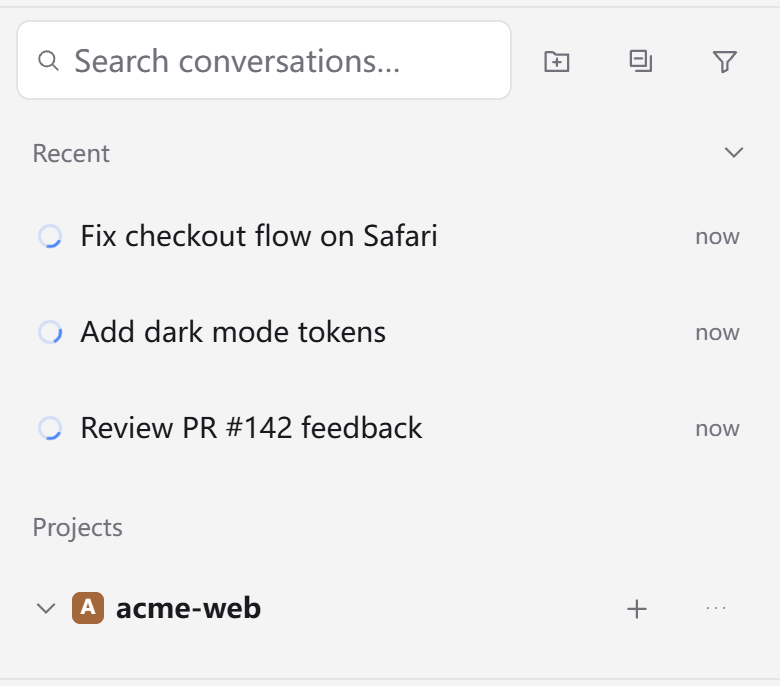
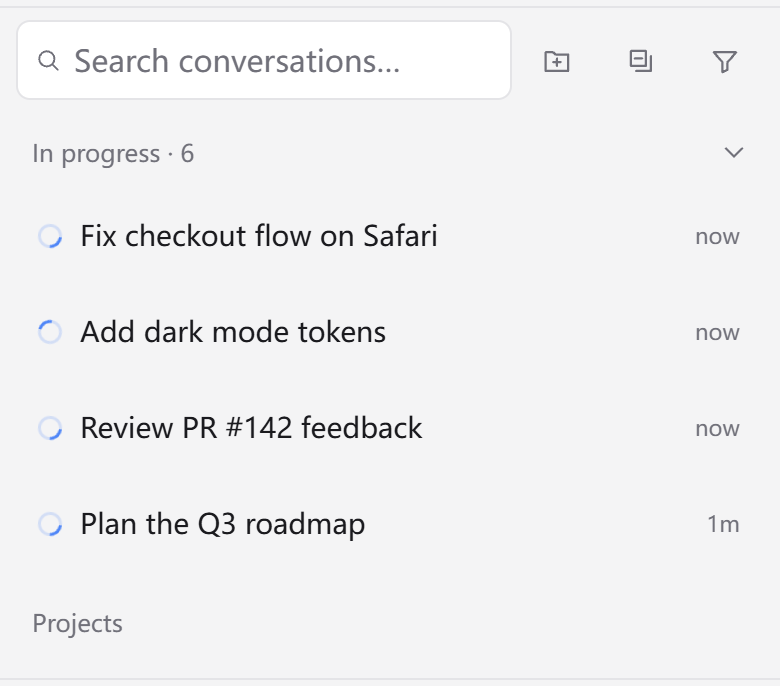
Nest subtasks under their parent, show In progress, two-line desktop titles
- Subtasks fold under the conversation that started them behind a count chip;
  the chip turns amber when a subtask needs approval or failed. Search and
  status filters still list subtasks directly.
- "Recent" becomes "In progress": running, waiting for permission, errored,
  or finished-unread conversations across projects, most urgent first. Quiet
  subtasks stay with their parent; permission requests still surface.
- Titles default to two lines on desktop and one on phones, chosen per device
  in View options -> Titles.
- Docs and listing screenshots updated.

diff --git a/client/sidebar.tsx b/client/sidebar.tsx
@@ -4,7 +4,7 @@ import { ConversationViewContext } from './conversation-view';
 import { FolderDragProvider, DragFolderRow, FolderDropTarget, type DragFolder, type FolderDestination } from './folder-drag';
 import { SidebarTabsView, type SidebarTabScope, type SidebarTabControls } from './sidebar-tabs';
 import { ConversationActions } from './conversation-actions';
-import { conversationState, aggregateStates } from '../shared/status';
+import { conversationState, aggregateStates, quietSubtask } from '../shared/status';
 import { ConversationDragProvider, DragConversationRow, ConversationDropTarget, type DragConversation, type ConversationDestination } from './drag-and-drop';
 import { conversationOrder, matchesConversation, defaultConversationOptions, type ConversationOptions } from '../shared/conversations';
 import { DropdownMenu, type DropdownAnchor, type DropdownItem } from './dropdown-menu';
@@ -25,20 +25,23 @@ import type { ReactNode } from 'react';
 const mediaQuery = (globalThis as unknown as { matchMedia?: (query: string) => { matches: boolean } }).matchMedia;
 const feedback = Platform?.OS === 'web' && mediaQuery && !mediaQuery('(prefers-reduced-motion: reduce)').matches ? { transitionProperty: 'background-color, opacity', transitionDuration: '140ms', transitionTimingFunction: 'ease-out' } : {};
 
-function ConversationRow({ reference, view, select, moving, detailed, serverLabel, loadingEffect, loadingColor }: { loadingColor?: string; loadingEffect?: LoadingEffect; reference: AgentRef; view: PluginSidebarViewProps; select(id: string): void; moving: boolean; detailed?: boolean; serverLabel?: string }) {
+type SubtaskChip = { count: number; open: boolean; alert: boolean; toggle(): void };
+function ConversationRow({ reference, view, select, moving, detailed, serverLabel, loadingEffect, loadingColor, subtasks, nested }: { subtasks?: SubtaskChip; nested?: boolean; loadingColor?: string; loadingEffect?: LoadingEffect; reference: AgentRef; view: PluginSidebarViewProps; select(id: string): void; moving: boolean; detailed?: boolean; serverLabel?: string }) {
   const agent = useAgent(reference, a => ({ title: a.title, status: a.status, requiresAttention: a.requiresAttention, attentionReason: a.attentionReason, lastActivityAt: a.lastActivityAt }));
   if (!agent) return null;
   const c = view.theme.colors;
   const selected = view.active.agent?.key === reference.key;
   return <ConversationActions reference={reference} view={view}>{openActions => <View style={{ ...feedback, flexDirection: 'row', alignItems: 'center', minWidth: 0, borderRadius: 6, paddingVertical: 0 }}>
     <Pressable theme={view.theme} hoverBackground="transparent" accessibilityState={{ selected }} accessibilityRole="button" accessibilityLabel={agent.title || t('Untitled conversation')} onPress={() => view.navigation.openAgent(reference)} onLongPress={moving ? () => select(reference.id) : openActions} style={() => ({ flex: 1, minWidth: 0, minHeight: view.layout.compact ? 44 : 32, paddingLeft: 10, paddingRight: 6, flexDirection: 'row', alignItems: 'center', gap: 8, backgroundColor: 'transparent', borderRadius: 6 })}>
-      <StatusMark loadingColor={loadingColor} loadingEffect={loadingEffect} state={conversationState(agent)} theme={view.theme} />
-      <View style={{ flex: 1, minWidth: 0, paddingVertical: serverLabel || detailed ? 5 : 0 }}>
-        <Text selectable={false} numberOfLines={detailed ? 3 : 1} style={{ color: c.foreground, fontSize: 14, lineHeight: 20, fontWeight: selected ? '600' : '400' }}>{agent.title || t('Untitled conversation')}</Text>
+      {/* Inside a parent, a finished unread subtask is not news; running, permission and error still show. */}
+      <StatusMark loadingColor={loadingColor} loadingEffect={loadingEffect} state={nested && conversationState(agent) === 'updated' ? 'finished' : conversationState(agent)} theme={view.theme} />
+      <View style={{ flex: 1, minWidth: 0, paddingVertical: serverLabel || detailed ? 4 : 0 }}>
+        <Text selectable={false} numberOfLines={detailed ? 2 : 1} style={{ color: nested ? c.foregroundMuted : c.foreground, fontSize: nested ? 13 : 14, lineHeight: nested ? 18 : 20, fontWeight: selected ? '600' : '400' }}>{agent.title || t('Untitled conversation')}</Text>
         {serverLabel && <Text selectable={false} numberOfLines={1} style={{ color: c.foregroundMuted, fontSize: 11, lineHeight: 15 }}>{serverLabel}</Text>}
       </View>
 
     </Pressable>
+    {subtasks && <Pressable theme={view.theme} accessibilityRole="button" accessibilityLabel={t('{0} subtasks', subtasks.count)} accessibilityState={{ expanded: subtasks.open }} onPress={subtasks.toggle} style={{ minHeight: view.layout.compact ? 40 : 24, paddingHorizontal: 6, borderRadius: 6, flexDirection: 'row', alignItems: 'center', gap: 3 }}><Glyph name="subtask" size={12} color={subtasks.alert ? c.statusWarning : c.foregroundMuted} /><Text selectable={false} style={{ color: subtasks.alert ? c.statusWarning : c.foregroundMuted, fontSize: 12 }}>{subtasks.count}</Text></Pressable>}
     {moving && <Pressable theme={view.theme} accessibilityRole="button" accessibilityLabel={`Move ${agent.title ?? t('Untitled conversation')}`} onPress={() => select(reference.id)} style={{ padding: 8, minWidth: 44, minHeight: 44, justifyContent: 'center', alignItems: 'center' }}><Glyph name="move" color={c.foregroundMuted} /></Pressable>}
   </View>}</ConversationActions>;
 }
@@ -110,8 +113,18 @@ export function FolderSidebar(view: PluginSidebarViewProps & {tabScope?: Sidebar
   const allowedProjects = new Set(projects.filter(project => projectFilter.includes(project.key)).flatMap(project => project.items.map(workspace => workspace.key)));
   const allowedLabels = new Set(labels.filter(label => labelFilter.includes(label.key)).flatMap(label => label.items.map(workspace => workspace.key)));
   const workspaceKeys = projectFilter.length || labelFilter.length || options.showBackground === false ? [...new Set(projects.flatMap(project => project.items.map(workspace => workspace.key)))].filter(key => !blockedBackground.has(key) && (!projectFilter.length || allowedProjects.has(key)) && (!labelFilter.length || allowedLabels.has(key))) : undefined;
-  const conversationOptions: ConversationOptions = { ...(tabScope ? {members:tabScope.tab.members} : {}), ...defaultConversationOptions, ...options, search, workspaceKeys, freshFolderId };
-  const detailed = options.multilineTitles;
+  const allAgents = useAgents({ where: agent => !agent.background });
+  // Subtasks nest under a parent that is itself listed; children of hidden parents stay top-level.
+  const parents = new Set(allAgents.filter(agent => !tabScope || tabScope.tab.members.some(member => member.hostId === agent.hostId && member.agentId === agent.id)).map(agent => agent.key));
+  const subtaskGroups = useAgents({ where: agent => !agent.background && !!agent.parentAgent, groupBy: agent => agent.parentAgent!.key, orderBy: ['lastActivityAt', 'desc'] });
+  const alertedParents = new Set(useAgents({ where: agent => !agent.background && !!agent.parentAgent && ['permission', 'error'].includes(conversationState(agent)), groupBy: agent => agent.parentAgent!.key }).map(group => group.key));
+  const conversationOptions: ConversationOptions = { parents, ...(tabScope ? {members:tabScope.tab.members} : {}), ...defaultConversationOptions, ...options, search, workspaceKeys, freshFolderId };
+  // Long first-prompt titles read better on two lines where there is room; each device can choose.
+  const titleLines = viewApi?.titleLines ?? (options.multilineTitles ? 2 : view.layout.compact ? 1 : 2);
+  const detailed = titleLines === 2;
+  const setTitleLines = (lines: number) => { if (viewApi) viewApi.setTitleLines(lines); else void option({ multilineTitles: lines === 2 }); };
+  const nesting = !search.trim() && conversationOptions.filter === 'all';
+  const subtasksOf = (key: string) => nesting ? subtaskGroups.find(group => group.key === key)?.items : undefined;
   const c = view.theme.colors;
   const hosts = useHosts().map(host => ({ ...host, label: /macbook/i.test(host.label) ? 'MacBook' : host.label }));
   const targetHost = pickedHost && hosts.some(h => h.serverId === pickedHost) ? pickedHost : ownerHost;
@@ -121,9 +134,8 @@ export function FolderSidebar(view: PluginSidebarViewProps & {tabScope?: Sidebar
   const isExpanded = (id: string) => viewApi ? viewApi.isOpen(folderKey(id), id === 'ungrouped') : id === 'ungrouped';
   const expand = (id: string) => viewApi?.setOpen(folderKey(id), true);
   const agents = useAgents({ hosts: onlyHost ? [onlyHost] : [], where: agent => matchesConversation(agent, conversationOptions), orderBy: conversationOrder(conversationOptions) });
-  const allAgents = useAgents({ where: agent => !agent.background });
   const nativeAgents = useAgents({ groupBy: agent => agent.workspace.key });
-  const stateGroups = useAgents({ where: agent => !tabScope || tabScope.tab.members.some(member => member.hostId === agent.hostId && member.agentId === agent.id), groupBy: agent => conversationState(agent) });
+  const stateGroups = useAgents({ where: agent => (!tabScope || tabScope.tab.members.some(member => member.hostId === agent.hostId && member.agentId === agent.id)) && !quietSubtask(agent), groupBy: agent => conversationState(agent) });
   const filteredAgents = useAgents({ where: agent => matchesConversation(agent, conversationOptions), orderBy: conversationOrder(conversationOptions) });
   const visible = agents;
   const button = (label: string, press: () => void) => <Pressable theme={view.theme} accessibilityRole="button" accessibilityLabel={label} onPress={press} style={({ pressed }) => ({ minHeight: view.layout.compact ? 44 : 36, minWidth: (label === '＋' || label === '⋮') ? (view.layout.compact ? 44 : 36) : undefined, paddingHorizontal: 8, paddingVertical: 6, justifyContent: 'center', flexDirection: 'row', alignItems: 'center', gap: 5, borderRadius: 6, backgroundColor: pressed ? c.surface2 : c.surface1, flexShrink: 0 })}>{(label === 'New folder' || label === '＋') ? <Glyph name="plus" color={c.foregroundMuted} /> : label === '⋮' ? <Glyph name="menu" color={c.foregroundMuted} /> : label === 'View options' ? <Glyph name="settings" color={c.foregroundMuted} /> : null}{label !== '＋' && label !== '⋮' && <Text style={{ color: c.foregroundMuted, fontSize: 12, lineHeight: 16 }}>{t(label)}</Text>}</Pressable>;
@@ -206,8 +218,13 @@ export function FolderSidebar(view: PluginSidebarViewProps & {tabScope?: Sidebar
     } finally { pending.current = false; }
   }
   function conversationRow(reference: AgentRef, groupId: string | null, folderHostId = reference.hostId, project?: {key:string;title:string}) {
+    const kids = subtasksOf(reference.key);
+    if (kids?.length) return <SubtaskGroup key={reference.key} parentKey={reference.key} kids={kids} alert={alertedParents.has(reference.key)} row={chip => parentRow(reference, groupId, folderHostId, project, chip)} child={child => <ConversationRow key={child.key} nested loadingColor={options.loadingColor} loadingEffect={options.loadingEffect} reference={child} view={view} moving={false} select={() => {}} />} />;
+    return parentRow(reference, groupId, folderHostId, project);
+  }
+  function parentRow(reference: AgentRef, groupId: string | null, folderHostId: string, project?: {key:string;title:string}, subtasks?: SubtaskChip) {
     return <ConversationDropTarget key={reference.key} destination={{ hostId: folderHostId, groupId, beforeId: reference.id, beforeHostId: reference.hostId, ...(project ? {projectKey:project.key,projectTitle:project.title} : {}) }} view={view}>
-      <DragConversationRow source={{ hostId: reference.hostId, agentId: reference.id }}><ConversationRow loadingColor={options.loadingColor} loadingEffect={options.loadingEffect} reference={reference} view={view} moving={options.grouping === 'manual' && selected !== null} select={id => setSelected(memberId(targetHost!, reference.hostId, id))} detailed={detailed} serverLabel={hosts.length > 1 && (groupId !== null || options.showServer) ? hosts.find(host => host.serverId === reference.hostId)?.label || 'Disconnected server' : undefined} /></DragConversationRow>
+      <DragConversationRow source={{ hostId: reference.hostId, agentId: reference.id }}><ConversationRow loadingColor={options.loadingColor} loadingEffect={options.loadingEffect} reference={reference} view={view} moving={options.grouping === 'manual' && selected !== null} select={id => setSelected(memberId(targetHost!, reference.hostId, id))} detailed={detailed} subtasks={subtasks} serverLabel={hosts.length > 1 && (groupId !== null || options.showServer) ? hosts.find(host => host.serverId === reference.hostId)?.label || 'Disconnected server' : undefined} /></DragConversationRow>
     </ConversationDropTarget>;
   }
   async function createHostFolder(hostId: string, name: string) {
@@ -274,7 +291,7 @@ export function FolderSidebar(view: PluginSidebarViewProps & {tabScope?: Sidebar
       { id: 'desc', label: t('Descending'), checked: conversationOptions.sortDirection === 'desc', disabled: conversationOptions.sortBy === 'manual', onSelect: () => { void option({ sortDirection: 'desc' }); } },
     ] },
     { id: 'filter', icon: 'filter', label: t('Status'), value: ({ all: t('All'), running: t('Running'), attention: t('Needs attention'), errors: t('Errors') })[conversationOptions.filter], items: (['all','running','attention','errors'] as const).map(filter => ({ id: filter, icon: ({ all: 'project', running: 'clock', attention: 'alert', errors: 'alert' } as const)[filter], label: ({ all: t('All conversations'), running: t('Running'), attention: t('Needs attention'), errors: t('Errors') })[filter], checked: conversationOptions.filter === filter, onSelect: () => { void option({ filter }); } })) },
-    { id: 'titles', icon: 'title', label: t('Titles'), value: detailed ? t('Multiline') : t('Single line'), items: [{ id: 'single', label: t('Single line'), checked: !detailed, onSelect: () => { void option({ multilineTitles: false }); } }, { id: 'multiline', label: t('Multiline'), checked: detailed, onSelect: () => { void option({ multilineTitles: true }); } }] },
+    { id: 'titles', icon: 'title', label: t('Titles'), value: detailed ? t('Two lines') : t('Single line'), items: [{ id: 'single', label: t('Single line'), checked: !detailed, onSelect: () => setTitleLines(1) }, { id: 'multiline', label: t('Two lines'), checked: detailed, onSelect: () => setTitleLines(2) }] },
     { id: 'display', icon: 'settings', label: t('Display'), items: [
       ...(multiHost ? [{ id: 'labels', label: t('Server labels'), checked: options.showServer, onSelect: () => { void option({ showServer: !options.showServer }); } },
       { id: 'tabs', label: t('Server tabs'), checked: options.showTabs, onSelect: () => { void option({ showTabs: !options.showTabs }); setPickedHost(null); } }] : []),
@@ -332,7 +349,7 @@ export function FolderSidebar(view: PluginSidebarViewProps & {tabScope?: Sidebar
     {tabScope && !tabScope.tab.members.length && <View style={{padding:8,gap:4}}><Text style={{color:c.foregroundMuted,fontSize:12}}>{t('Add existing conversations to this tab.')}</Text><Pressable theme={view.theme} accessibilityRole="button" accessibilityLabel={t('Choose conversations…')} onPress={tabScope.openMembers} style={{minHeight:view.layout.compact?44:32,justifyContent:'center'}}><Text style={{color:c.accent,fontSize:13}}>{t('Choose conversations…')}</Text></Pressable></View>}
     {folderError && <Text accessibilityRole="alert" style={{ marginHorizontal: 8, marginBottom: 6, color: c.statusDanger, fontSize: 11, lineHeight: 16 }}>{folderError}</Text>}
     {selected && <Text style={{ color: c.foregroundMuted, fontSize: 12, padding: 8 }}>{t('Choose a folder for the selected conversation')}</Text>}
-    {!search.trim() && <RecentSection view={view} options={conversationOptions} row={reference => <ConversationRow key={`recent:${reference.key}`} loadingColor={options.loadingColor} loadingEffect={options.loadingEffect} reference={reference} view={view} moving={false} select={() => {}} detailed={detailed} serverLabel={multiHost ? hosts.find(host => host.serverId === reference.hostId)?.label : undefined} />} />}
+    {!search.trim() && <ActiveSection view={view} options={conversationOptions} row={reference => <ConversationRow key={`active:${reference.key}`} loadingColor={options.loadingColor} loadingEffect={options.loadingEffect} reference={reference} view={view} moving={false} select={() => {}} detailed={detailed} serverLabel={multiHost ? hosts.find(host => host.serverId === reference.hostId)?.label : undefined} />} />}
     <SectionLabel view={view} label={({ manual: t('Folders'), project: t('Projects'), server: t('Servers'), 'server-project': t('Servers') })[options.grouping]} />
     <Transition identity={`${options.grouping}:${targetHost}:${options.showTabs}`}>
     {options.grouping !== 'manual' && <AutomaticTree pickerTree={pickerTree} addConversations={addConversations} revision={settings.revision} assignedConversations={assigned} conversationOptions={conversationOptions} unfiledOrder={hostId => hostState(hostId)?.ungroupedOrder ?? []} folderAction={folderAction} createFolder={createHostFolder} foldersForHost={hostId => presentationHostState(hostId)?.groups ?? []} mode={options.grouping} hosts={pickedHost ? hosts.filter(host => host.serverId === pickedHost) : hosts} view={view} row={conversationRow} />}
@@ -383,14 +400,26 @@ function SectionLabel({ view, label, open, toggle }: { view: PluginSidebarViewPr
   return toggle ? <Pressable theme={view.theme} accessibilityRole="button" accessibilityLabel={label} accessibilityState={{ expanded: open }} onPress={toggle} style={style}>{text}<Disclosure open={!!open} color={c.foregroundMuted} /></Pressable> : <View style={style}>{text}</View>;
 }
 
-/** The latest conversations across every project, above the tree; the tree itself is unchanged. */
-function RecentSection({ view, options, row }: { view: PluginSidebarViewProps; options: ConversationOptions; row(reference: AgentRef): ReactNode }) {
-  const [open, setOpen] = useBranchOpen('recent');
-  const recent = useAgents({ where: agent => matchesConversation(agent, options), orderBy: ['lastActivityAt', 'desc'] });
-  if (!recent.length) return null;
+const urgency = (state: string) => state === 'permission' || state === 'error' ? 0 : state === 'updated' ? 1 : 2;
+/** What is running, waiting on the user, or finished unread, across every project; quiet subtasks stay with their parent. */
+function ActiveSection({ view, options, row }: { view: PluginSidebarViewProps; options: ConversationOptions; row(reference: AgentRef): ReactNode }) {
+  const [open, setOpen] = useBranchOpen('active');
+  const active = useAgents({
+    where: agent => ['running', 'permission', 'error', 'updated'].includes(conversationState(agent)) && !quietSubtask(agent) && matchesConversation(agent, { ...options, parents: undefined }),
+    orderBy: (a, b) => urgency(conversationState(a)) - urgency(conversationState(b)) || (b.lastActivityAt || '').localeCompare(a.lastActivityAt || ''),
+  });
+  if (!active.length) return null;
   return <View style={{ minWidth: 0, marginBottom: 6 }}>
-    <SectionLabel view={view} label={t('Recent')} open={open} toggle={() => setOpen(!open)} />
-    {/* Phones have less room under Paseo's own menu, so they keep the project tree in view. */}
-    <Reveal open={open}>{recent.slice(0, view.layout.compact ? 3 : 5).map(row)}</Reveal>
+    <SectionLabel view={view} label={`${t('In progress')} · ${active.length}`} open={open} toggle={() => setOpen(!open)} />
+    <Reveal open={open}>{active.slice(0, view.layout.compact ? 4 : 8).map(row)}</Reveal>
+  </View>;
+}
+
+/** A parent conversation with its subtasks folded below it; children mount only while open. */
+function SubtaskGroup({ parentKey, kids, alert, row, child }: { parentKey: string; kids: readonly AgentRef[]; alert: boolean; row(chip: SubtaskChip): ReactNode; child(reference: AgentRef): ReactNode }) {
+  const [open, setOpen] = useBranchOpen(`subtasks:${parentKey}`, false);
+  return <View style={{ minWidth: 0 }}>
+    {row({ count: kids.length, open, alert, toggle: () => setOpen(!open) })}
+    <Reveal open={open}><View style={{ marginLeft: 22, minWidth: 0 }}>{open && kids.map(child)}</View></Reveal>
   </View>;
 }

diff --git a/client/automatic-tree.tsx b/client/automatic-tree.tsx
@@ -1,7 +1,7 @@
 import { FolderAdd } from './folder-add';
 import { isSidebarDragging } from './web';
 import { DragFolderRow, FolderDropTarget } from './folder-drag';
-import { conversationState, aggregateStates } from '../shared/status';
+import { conversationState, aggregateStates, quietSubtask } from '../shared/status';
 import { ConversationDropTarget, type ConversationDestination } from './drag-and-drop';
 import { ConversationViewContext, useConversationView } from './conversation-view';
 import { conversationOrder, matchesConversation, defaultConversationOptions, type ConversationOptions } from '../shared/conversations';
@@ -67,7 +67,7 @@ function ProjectBranch({ reference, workspaceKeys, view, row, children, excluded
   const projectFolder = foldersForHost(reference.hostId).find(group => group.projectKey === workspace?.project.key);
   const memberHosts = projectFolder?.agentIds.map(id => memberRef(reference.hostId, id).hostId) ?? [];
   const agents = useAgents({ hosts: [...new Set([reference.hostId, ...memberHosts])], where: a => ((workspaceKeys.has(a.workspace.key) && !excluded.has(`${a.hostId}:${a.id}`)) || !!projectFolder && containsMember(projectFolder.agentIds, reference.hostId, a.hostId, a.id)) && matchesConversation(a, options), orderBy: conversationOrder(options, projectFolder?.agentIds ?? unfiledOrder(reference.hostId), reference.hostId) });
-  const agentStates = useAgents({ hosts: [...new Set([reference.hostId, ...memberHosts])], where: agent => (!options.members || options.members.some(member => member.hostId === agent.hostId && member.agentId === agent.id)) && ((workspaceKeys.has(agent.workspace.key) && !excluded.has(`${agent.hostId}:${agent.id}`)) || !!projectFolder && containsMember(projectFolder.agentIds, reference.hostId, agent.hostId, agent.id)), groupBy: agent => conversationState(agent) });
+  const agentStates = useAgents({ hosts: [...new Set([reference.hostId, ...memberHosts])], where: agent => (!options.members || options.members.some(member => member.hostId === agent.hostId && member.agentId === agent.id)) && ((workspaceKeys.has(agent.workspace.key) && !excluded.has(`${agent.hostId}:${agent.id}`)) || !!projectFolder && containsMember(projectFolder.agentIds, reference.hostId, agent.hostId, agent.id)) && !quietSubtask(agent), groupBy: agent => conversationState(agent) });
   const projectStatus = aggregateStates(agentStates.map(group => group.key));
   const key = workspace?.project.key;
   const appearance = settings.status === 'ready' && key ? settings.values.projects[key] : undefined;
@@ -165,7 +165,7 @@ function HostBranch({ host, mode, view, row, createFolder, groups = [], excluded
   const c = view.theme.colors;
   const available = !host.status || host.status === 'online';
   const members = groups.flatMap(group => group.agentIds);
-  const states = useAgents({ where: agent => (!options.members || options.members.some(member => member.hostId === agent.hostId && member.agentId === agent.id)) && (agent.hostId === host.serverId || containsMember(members, host.serverId, agent.hostId, agent.id)), groupBy: agent => conversationState(agent) });
+  const states = useAgents({ where: agent => (!options.members || options.members.some(member => member.hostId === agent.hostId && member.agentId === agent.id)) && (agent.hostId === host.serverId || containsMember(members, host.serverId, agent.hostId, agent.id)) && !quietSubtask(agent), groupBy: agent => conversationState(agent) });
   const hostStatus = aggregateStates(states.map(bucket => bucket.key));
   async function createGroup() {
     if (!adding || pending.current || !path.trim() || !available) return;
@@ -196,7 +196,7 @@ function FolderConversations({ group, hostId, row }: { group: Group; hostId: str
 function FolderBranch({ group, groups, hostId, view, row, folderAction }: { folderAction?: FolderAction; group: Group; groups: Group[]; hostId: string; view: PluginSidebarViewProps; row(ref: AgentRef, groupId: string | null, folderHostId?: string, project?: {key:string;title:string}): ReactNode }) {
   const { options } = useConversationView();
   const members = [...group.agentIds, ...groups.filter(child => child.parentId === group.id).flatMap(child => child.agentIds)];
-  const agentStates = useAgents({ hosts: [...new Set(members.map(id => memberRef(hostId, id).hostId))], where: agent => (!options.members || options.members.some(member => member.hostId === agent.hostId && member.agentId === agent.id)) && containsMember(members, hostId, agent.hostId, agent.id), groupBy: agent => conversationState(agent) });
+  const agentStates = useAgents({ hosts: [...new Set(members.map(id => memberRef(hostId, id).hostId))], where: agent => (!options.members || options.members.some(member => member.hostId === agent.hostId && member.agentId === agent.id)) && containsMember(members, hostId, agent.hostId, agent.id) && !quietSubtask(agent), groupBy: agent => conversationState(agent) });
   const folderStatus = aggregateStates(agentStates.map(bucket => bucket.key));
   return <FolderArrival fresh={options.freshFolderId === group.id}><Branch stateKey={`folder:${hostId}:${group.id}`} folderGroup={group} state={folderStatus.state} hasUpdates={folderStatus.hasUpdates} destination={{ hostId, groupId: group.id }} title={group.name} icon="folder" view={view} hoverAction action={<FolderAdd hostId={hostId} group={group} view={view} />} menuActions={folderAction ? [
     { id: 'rename', label: t('Rename…'), onSelect: () => folderAction(hostId, group, 'rename') },

diff --git a/shared/conversations.ts b/shared/conversations.ts
@@ -1,12 +1,14 @@
 /** Presentation-only query policy shared by manual and automatic trees. */
 export type SortBy = 'activity' | 'created' | 'title' | 'manual';
 export type ConversationFilter = 'all' | 'running' | 'attention' | 'errors';
-export interface ConversationOptions { members?: readonly {hostId:string;agentId:string}[]; showCounts?: boolean; loadingColor?: string; collapseVersion?: number; allCollapsed?: boolean; freshFolderId?: string; loadingEffect?: 'spinner' | 'orbit' | 'pulse' | 'dots' | 'bars'; sortBy: SortBy; sortDirection: 'asc' | 'desc'; filter: ConversationFilter; search: string; workspaceKeys?: readonly string[] }
-export interface ConversationSnapshot { id: string; hostId: string; title: string | null; status: string; createdAt: string; lastActivityAt: string; requiresAttention: boolean; attentionReason: string | null; workspace?: { key: string }; background?: boolean }
+export interface ConversationOptions { members?: readonly {hostId:string;agentId:string}[]; parents?: ReadonlySet<string>; showCounts?: boolean; loadingColor?: string; collapseVersion?: number; allCollapsed?: boolean; freshFolderId?: string; loadingEffect?: 'spinner' | 'orbit' | 'pulse' | 'dots' | 'bars'; sortBy: SortBy; sortDirection: 'asc' | 'desc'; filter: ConversationFilter; search: string; workspaceKeys?: readonly string[] }
+export interface ConversationSnapshot { id: string; hostId: string; title: string | null; status: string; createdAt: string; lastActivityAt: string; requiresAttention: boolean; attentionReason: string | null; workspace?: { key: string }; background?: boolean; parentAgent?: { key: string } | null }
 export const defaultConversationOptions: ConversationOptions = { sortBy: 'activity', sortDirection: 'desc', filter: 'all', search: '' };
 export function matchesConversation(agent: ConversationSnapshot, options: ConversationOptions): boolean {
   // Background agents are helpers Paseo keeps out of tabs and lists; orchestrator runs would bury real conversations.
   if (agent.background) return false;
+  // Subtasks sit under their visible parent conversation; search and status filters still find them directly.
+  if (options.parents && agent.parentAgent && options.parents.has(agent.parentAgent.key) && !options.search.trim() && options.filter === 'all') return false;
   if (options.members && !options.members.some(member => member.hostId === agent.hostId && member.agentId === agent.id)) return false;
   if (options.workspaceKeys && (!agent.workspace || !options.workspaceKeys.includes(agent.workspace.key))) return false;
   if (options.search.trim() && !(agent.title || 'Untitled conversation').toLocaleLowerCase().includes(options.search.trim().toLocaleLowerCase())) return false;

diff --git a/client/view-state.tsx b/client/view-state.tsx
@@ -2,8 +2,8 @@ import { createContext, useContext, useEffect, useRef, useState, type ReactNode 
 import { useSettings } from '@getpaseo/plugin/client';
 import { viewState } from '../shared/settings';
 
-type State = { open: Record<string, boolean>; showAll: string[]; activeTab: string | null };
-const empty: State = { open: {}, showAll: [], activeTab: null };
+type State = { open: Record<string, boolean>; showAll: string[]; activeTab: string | null; titleLines: number | null };
+const empty: State = { open: {}, showAll: [], activeTab: null, titleLines: null };
 interface ViewApi {
   isOpen(key: string, fallback: boolean): boolean;
   setOpen(key: string, open: boolean): void;
@@ -12,6 +12,8 @@ interface ViewApi {
   setShowAll(key: string, value: boolean): void;
   activeTab: string | null;
   setActiveTab(id: string | null): void;
+  titleLines: number | null;
+  setTitleLines(lines: number): void;
   collapsed: boolean;
   toggleCollapseAll(extra?: readonly string[]): void;
 }
@@ -47,6 +49,8 @@ export function ViewStateProvider({ children }: { children: ReactNode }) {
     setShowAll: (key, show) => update(value => ({ ...value, showAll: show ? [...new Set([...value.showAll, key])] : value.showAll.filter(item => item !== key) })),
     activeTab: current.activeTab,
     setActiveTab: id => update(value => ({ ...value, activeTab: id })),
+    titleLines: current.titleLines,
+    setTitleLines: lines => update(value => ({ ...value, titleLines: lines })),
     collapsed,
     toggleCollapseAll: (extra = []) => {
       if (collapsed) update(value => ({ ...value, open: { ...beforeCollapse.current } }));

diff --git a/client/i18n.ts b/client/i18n.ts
@@ -26,7 +26,7 @@ const zh: Record<string, string> = {
   'Show background workspaces': '显示后台工作区', 'Status': '状态', 'All': '全部', 'All conversations': '全部对话',
   'Running': '运行中', 'Needs attention': '需要处理', 'Errors': '出错', 'Custom tabs': '自定义标签页', 'On': '开', 'Off': '关',
   'Server tabs': '服务器标签页', 'Show server tabs': '显示服务器标签页', 'Name': '名称', 'Initial': '首字母', 'Count': '数量', 'Hidden': '隐藏',
-  'Organize conversations…': '整理对话…', 'More actions': '更多操作', 'Recent': '最近', 'Projects': '项目', 'Folders': '文件夹', 'Servers': '服务器',
+  'Organize conversations…': '整理对话…', 'More actions': '更多操作', 'Recent': '最近', 'In progress': '进行中', '{0} subtasks': '{0} 个子任务', 'Two lines': '两行', 'Projects': '项目', 'Folders': '文件夹', 'Servers': '服务器',
   'Enable custom tabs': '启用自定义标签页', 'New tab…': '新建标签页…', 'Rename tab…': '重命名标签页…', 'Close tab': '关闭标签页', 'Reopen {0}': '重新打开 {0}',
   'Choose conversations': '选择对话', 'Rename tab': '重命名标签页', 'New tab': '新建标签页', 'Tab name…': '标签页名称…',
   'Choose existing conversations for this tab. They stay on their original servers.': '为这个标签页选择已有对话，对话仍留在原来的服务器上。',

diff --git a/shared/status.ts b/shared/status.ts
@@ -7,6 +7,10 @@ export function conversationState(agent: AgentStatus): string {
   if (agent.requiresAttention) return 'updated';
   return agent.status === 'idle' || agent.attentionReason === 'finished' ? 'finished' : 'idle';
 }
+/** A subtask's result, error included, goes back to its parent; only a permission request needs the user directly. */
+export function quietSubtask(agent: AgentStatus & { parentAgent?: unknown }) {
+  return !!agent.parentAgent && conversationState(agent) !== 'permission';
+}
 export function aggregateStates(states: readonly string[]) {
   return { state: ['running','error','permission','updated'].find(state => states.includes(state)) ?? 'idle', hasUpdates: states.some(state => ['updated','permission','error'].includes(state)) };
 }

diff --git a/client/visuals.tsx b/client/visuals.tsx
@@ -24,6 +24,7 @@ const paths = {
   star: 'm12 3 3 6 7 1-5 5 1 7-6-3-6 3 1-7-5-5 7-1Z',
   book: 'M12 5C8 2 4 3 2 4v16c3-2 7-2 10 0 3-2 7-2 10 0V4c-2-1-6-2-10 1Zm0 0v15',
   folder: 'M3 7V5h6l2 2h10v13H3Z',
+  subtask: 'M6 4v8a4 4 0 0 0 4 4h10m-4-4 4 4-4 4',
   folderPlus: 'M3 7V5h6l2 2h10v13H3ZM12 10v6M9 13h6',
   server: 'M3 3h18v7H3ZM3 14h18v7H3ZM7 6h.01M7 17h.01',
   project: 'M3 3h7v7H3ZM14 3h7v7h-7ZM3 14h7v7H3ZM14 14h7v7h-7Z',

diff --git a/shared/settings.ts b/shared/settings.ts
@@ -52,6 +52,7 @@ export const viewState = defineSettings({
     open: z.record(z.string(), z.boolean()).default({}),
     showAll: z.array(z.string()).default([]),
     activeTab: z.string().nullable().default(null),
+    titleLines: z.number().int().min(1).max(2).nullable().default(null),
   }),
 });
 

diff --git a/OVERVIEW.md b/OVERVIEW.md
@@ -12,7 +12,9 @@ Select **Conversation folders Plus** in **Settings → Sidebar → Sidebar view*
 
 ## Use
 
-- The search box at the top filters conversations by title. **Recent** lists the latest conversations across all projects (five on desktop, three on phones); fold it from its heading.
+- The search box at the top filters conversations by title. **In progress** lists what is running, waiting for your approval, or finished but unread, across all projects; fold it from its heading.
+- Subtasks a conversation starts are folded under it behind a count. A subtask appears in **In progress** only when it asks for permission, and the count turns amber when a subtask needs approval or failed. Search and status filters list subtasks directly.
+- Titles use two lines on desktop and one on phones; change it per device in **View options → Titles**.
 - In the project view each project shows its latest ten conversations with **Show more** for the rest, and uses the same colored initial tile as Paseo’s own sidebar. Hover a project and press **+** to start a new conversation in it.
 - Create folders with the **New folder** button or a server’s **More → New folder…**. Folders support one level of children; deleting a folder keeps its conversations.
 - Drag conversations, folders, and projects to move or reorder them. Dropping a project on another project reorders it and never nests it. Folder **+** lets you select conversations from **Current layout** or **Original sources** (server → workspace).
@@ -22,7 +24,7 @@ Select **Conversation folders Plus** in **Settings → Sidebar → Sidebar view*
 - Right-click a conversation, use **More**, or long-press on a phone for rename, pin, labels, copy, archive, and deletion where available. Archive and deletion require confirmation; workspace actions affect the whole workspace.
 - The interface follows Paseo’s language setting. English and Simplified Chinese are included.
 
-Folders, order, project appearance, and display settings are saved in Paseo’s plugin settings, shared by every connected client, and update live. Folded branches, **Show more**, and the selected tab are remembered on each device. Conversations keep their original server, workspace, and files. The plugin does not upload this information to an external service.
+Folders, order, project appearance, and display settings are saved in Paseo’s plugin settings, shared by every connected client, and update live. Folded branches, **Show more**, title lines, and the selected tab are remembered on each device. Conversations keep their original server, workspace, and files. The plugin does not upload this information to an external service.
 
 ## Limits
 

diff --git a/README.md b/README.md
@@ -18,7 +18,9 @@ Select **Conversation folders Plus** in **Settings → Sidebar → Sidebar view*
 
 ## Use
 
-- The search box at the top filters conversations by title. **Recent** lists the latest conversations across all projects (five on desktop, three on phones); fold it from its heading.
+- The search box at the top filters conversations by title. **In progress** lists what is running, waiting for your approval, or finished but unread, across all projects; fold it from its heading.
+- Subtasks a conversation starts are folded under it behind a count. A subtask appears in **In progress** only when it asks for permission, and the count turns amber when a subtask needs approval or failed. Search and status filters list subtasks directly.
+- Titles use two lines on desktop and one on phones; change it per device in **View options → Titles**.
 - In the project view each project shows its latest ten conversations with **Show more** for the rest, and uses the same colored initial tile as Paseo’s own sidebar. Hover a project and press **+** to start a new conversation in it.
 - Create folders with the **New folder** button or a server’s **More → New folder…**. Folders support one level of children; deleting a folder keeps its conversations.
 - Drag conversations, folders, and projects to move or reorder them. Dropping a project on another project reorders it and never nests it. Folder **+** lets you select conversations from **Current layout** or **Original sources** (server → workspace).
@@ -28,7 +30,7 @@ Select **Conversation folders Plus** in **Settings → Sidebar → Sidebar view*
 - Right-click a conversation, use **More**, or long-press on a phone for rename, pin, labels, copy, archive, and deletion where available. Archive and deletion require confirmation; workspace actions affect the whole workspace.
 - The interface follows Paseo’s language setting. English and Simplified Chinese are included.
 
-Folders, order, project appearance, and display settings are saved in Paseo’s plugin settings, shared by every connected client, and update live. Folded branches, **Show more**, and the selected tab are remembered on each device. Conversations keep their original server, workspace, and files. The plugin does not upload this information to an external service.
+Folders, order, project appearance, and display settings are saved in Paseo’s plugin settings, shared by every connected client, and update live. Folded branches, **Show more**, title lines, and the selected tab are remembered on each device. Conversations keep their original server, workspace, and files. The plugin does not upload this information to an external service.
 
 ## Limits
 

diff --git a/README.zh-CN.md b/README.zh-CN.md
@@ -18,7 +18,9 @@ paseo plugin install https://github.com/xiaobaifly7/paseo-conversation-folders
 
 ## 使用
 
-- 顶部搜索框按标题筛选对话。**最近** 跨所有项目列出最新的对话（电脑 5 条、手机 3 条），点标题可以折叠。
+- 顶部搜索框按标题筛选对话。**进行中** 跨所有项目列出正在运行、等你授权、已完成但未读的对话，点标题可以折叠。
+- 对话派出的子任务收在它下面，用一个数字表示，点开才显示。子任务只有在请求授权时才会出现在 **进行中**；有子任务等授权或出错时，这个数字会变成橙色。搜索和状态筛选会直接列出子任务。
+- 标题在电脑上显示两行、手机上一行，可在 **视图与筛选 → 标题显示** 中按设备修改。
 - 按项目分组时，每个项目先显示最近 10 条对话，其余点 **显示更多**；项目图标是和 Paseo 自带侧栏相同的彩色首字母方块。鼠标移到项目上点 **+** 即可在该项目里新建对话。
 - 用 **新建文件夹** 按钮或服务器的 **更多 → 新建文件夹…** 新建文件夹。支持一层子文件夹，删除文件夹会保留对话。
 - 拖动对话、文件夹或项目即可移动和排序。把项目拖到另一个项目上只会调整顺序，不会嵌套。文件夹旁的 **+** 可从 **当前布局** 或 **原始来源（服务器 → 工作区）** 选择对话。
@@ -28,7 +30,7 @@ paseo plugin install https://github.com/xiaobaifly7/paseo-conversation-folders
 - 对话右键、**更多** 按钮或手机上长按，可重命名、置顶、加标签、复制、归档和删除（可用时）。归档与删除需要确认，工作区操作会影响整个工作区。
 - 界面语言跟随 Paseo 设置，内置英文和简体中文。
 
-文件夹、排序、项目外观和显示设置保存在 Paseo 插件设置中，所有已连接的设备共享并实时更新；折叠状态、“显示更多”和当前标签页只记在本设备。对话保留原服务器、工作区和文件。插件不会把这些信息上传到外部服务。
+文件夹、排序、项目外观和显示设置保存在 Paseo 插件设置中，所有已连接的设备共享并实时更新；折叠状态、“显示更多”、标题行数和当前标签页只记在本设备。对话保留原服务器、工作区和文件。插件不会把这些信息上传到外部服务。
 
 ## 限制
 

diff --git a/OVERVIEW.zh-CN.md b/OVERVIEW.zh-CN.md
@@ -12,7 +12,9 @@
 
 ## 使用
 
-- 顶部搜索框按标题筛选对话。**最近** 跨所有项目列出最新的对话（电脑 5 条、手机 3 条），点标题可以折叠。
+- 顶部搜索框按标题筛选对话。**进行中** 跨所有项目列出正在运行、等你授权、已完成但未读的对话，点标题可以折叠。
+- 对话派出的子任务收在它下面，用一个数字表示，点开才显示。子任务只有在请求授权时才会出现在 **进行中**；有子任务等授权或出错时，这个数字会变成橙色。搜索和状态筛选会直接列出子任务。
+- 标题在电脑上显示两行、手机上一行，可在 **视图与筛选 → 标题显示** 中按设备修改。
 - 按项目分组时，每个项目先显示最近 10 条对话，其余点 **显示更多**；项目图标是和 Paseo 自带侧栏相同的彩色首字母方块。鼠标移到项目上点 **+** 即可在该项目里新建对话。
 - 用 **新建文件夹** 按钮或服务器的 **更多 → 新建文件夹…** 新建文件夹。支持一层子文件夹，删除文件夹会保留对话。
 - 拖动对话、文件夹或项目即可移动和排序。把项目拖到另一个项目上只会调整顺序，不会嵌套。文件夹旁的 **+** 可从 **当前布局** 或 **原始来源（服务器 → 工作区）** 选择对话。
@@ -22,7 +24,7 @@
 - 对话右键、**更多** 按钮或手机上长按，可重命名、置顶、加标签、复制、归档和删除（可用时）。归档与删除需要确认，工作区操作会影响整个工作区。
 - 界面语言跟随 Paseo 设置，内置英文和简体中文。
 
-文件夹、排序、项目外观和显示设置保存在 Paseo 插件设置中，所有已连接的设备共享并实时更新；折叠状态、“显示更多”和当前标签页只记在本设备。对话保留原服务器、工作区和文件。插件不会把这些信息上传到外部服务。
+文件夹、排序、项目外观和显示设置保存在 Paseo 插件设置中，所有已连接的设备共享并实时更新；折叠状态、“显示更多”、标题行数和当前标签页只记在本设备。对话保留原服务器、工作区和文件。插件不会把这些信息上传到外部服务。
 
 ## 限制
 
